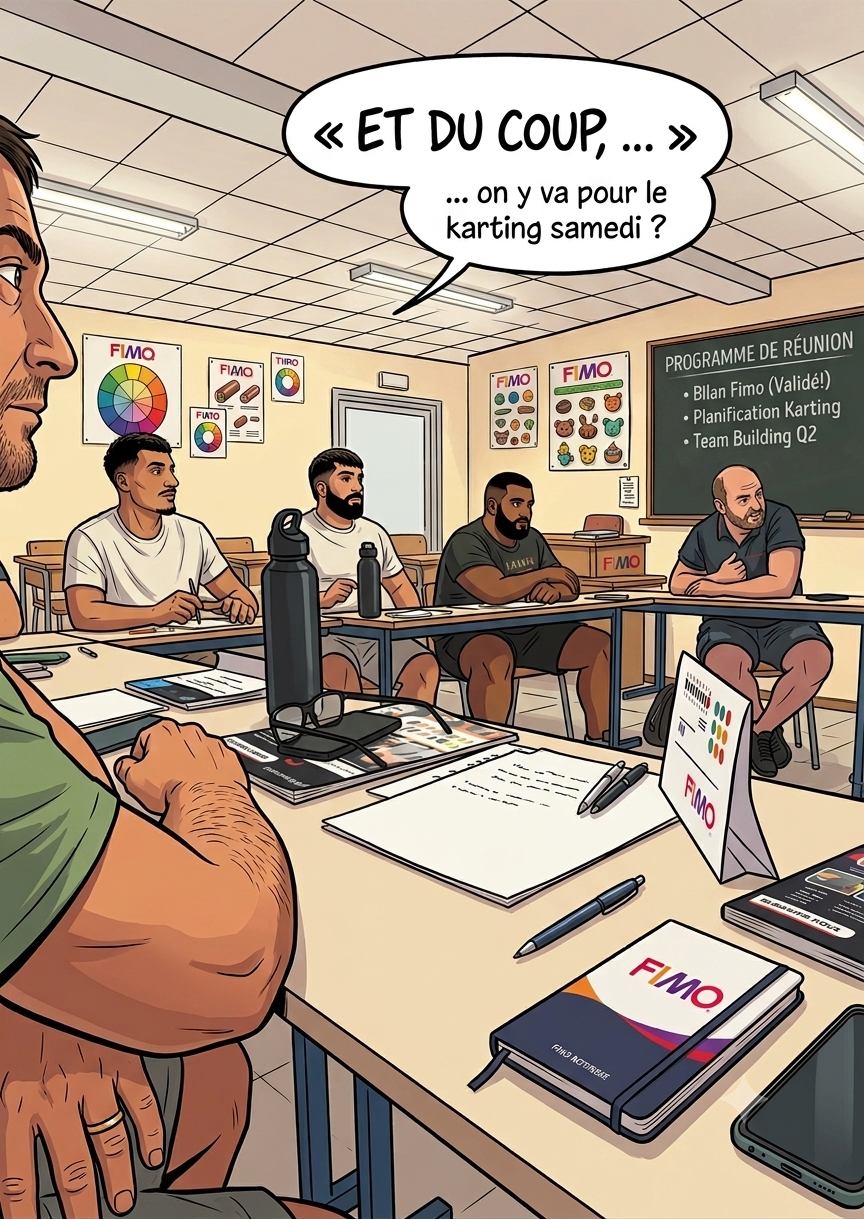
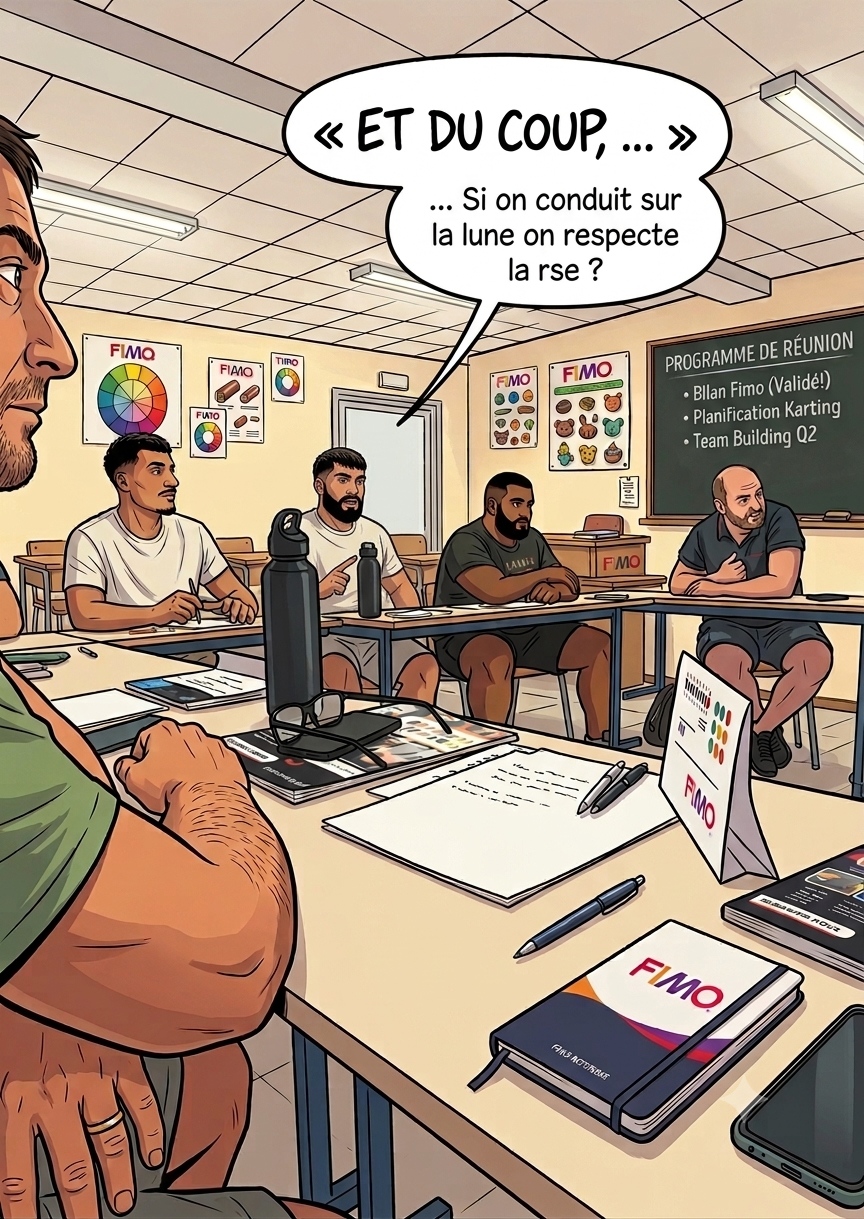
Met a jour l'image de salle FIMO sur le tableau de bord

Changed region(s): [[0.4375, 0.1559, 0.8438, 0.3429], [0.3125, 0.3429, 0.5, 0.4988], [0.6562, 0.3429, 0.6875, 0.3741]]

diff --git a/ui/views.js b/ui/views.js
@@ -155,7 +155,7 @@
       <div class="dash-layout">
         <section class="hero dash-hero">
           <div class="hero-top">
-            <img class="prof" src="classe.png?v=1" alt="Salle FIMO" />
+            <img class="prof" src="classe.png?v=2" alt="Salle FIMO" />
             <h2>${who ? "Salut " + u().escapeHtml(who) : "Préparation FIMO"}</h2>
           </div>
           <div class="dash-progress">

diff --git a/index.html b/index.html
@@ -153,7 +153,7 @@
   <script src="engine/recommend.js?v=48"></script>
   <script src="engine/select.js"></script>
   <script src="ui/helpers.js?v=40"></script>
-  <script src="ui/views.js?v=49"></script>
+  <script src="ui/views.js?v=50"></script>
   <script src="app2.js?v=49" charset="utf-8"></script>
 </body>
 </html>
